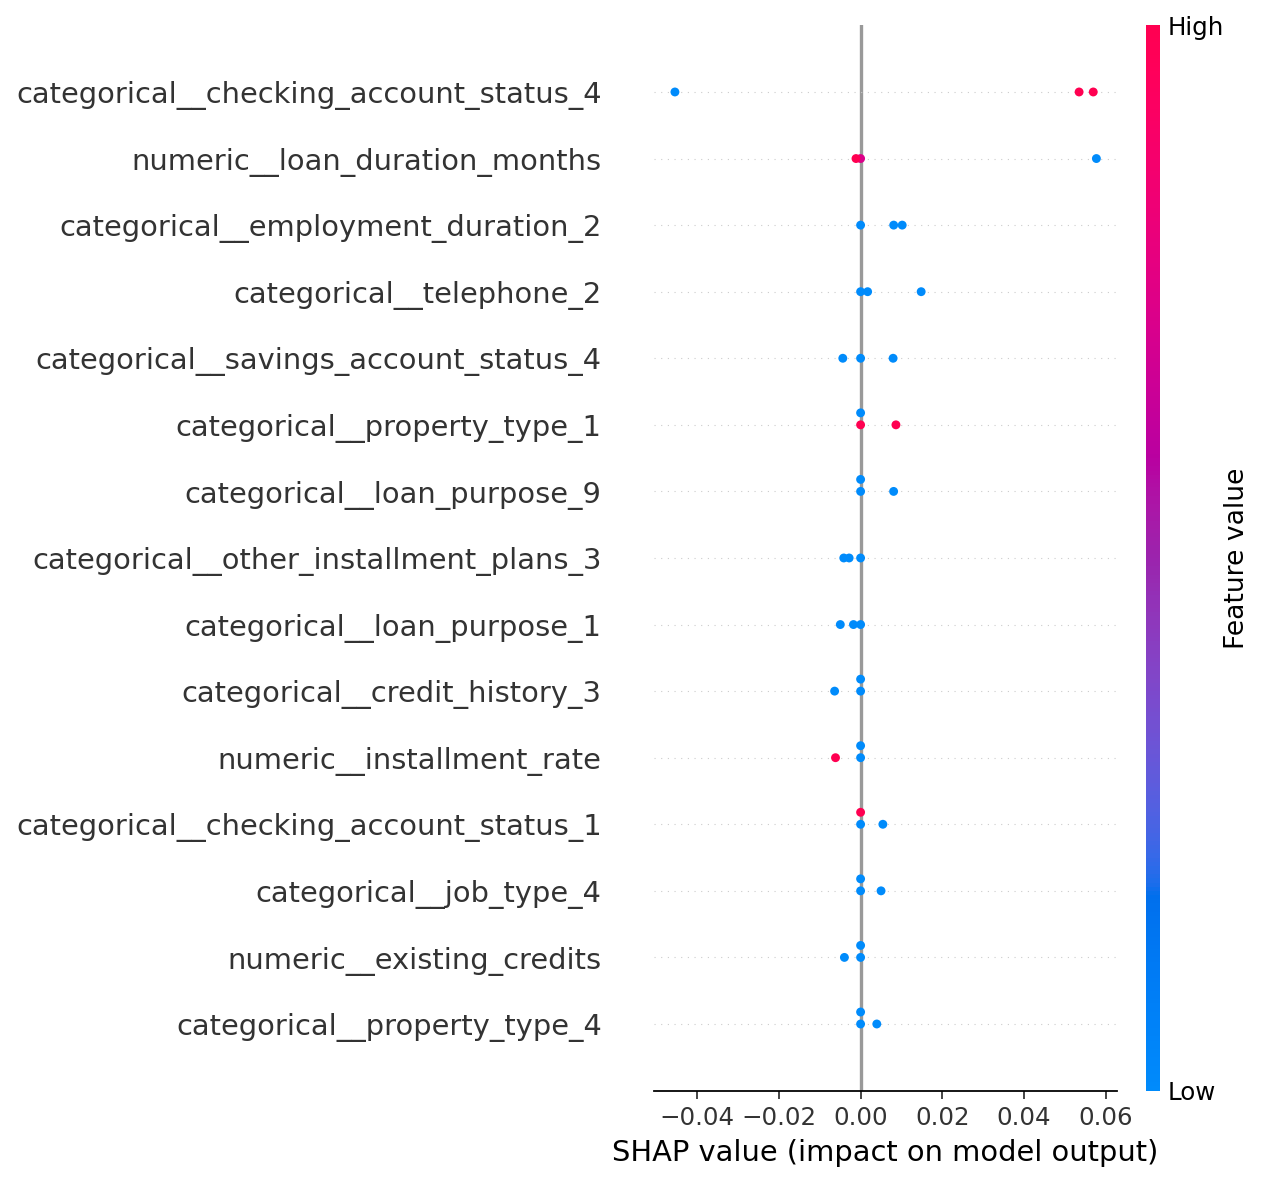
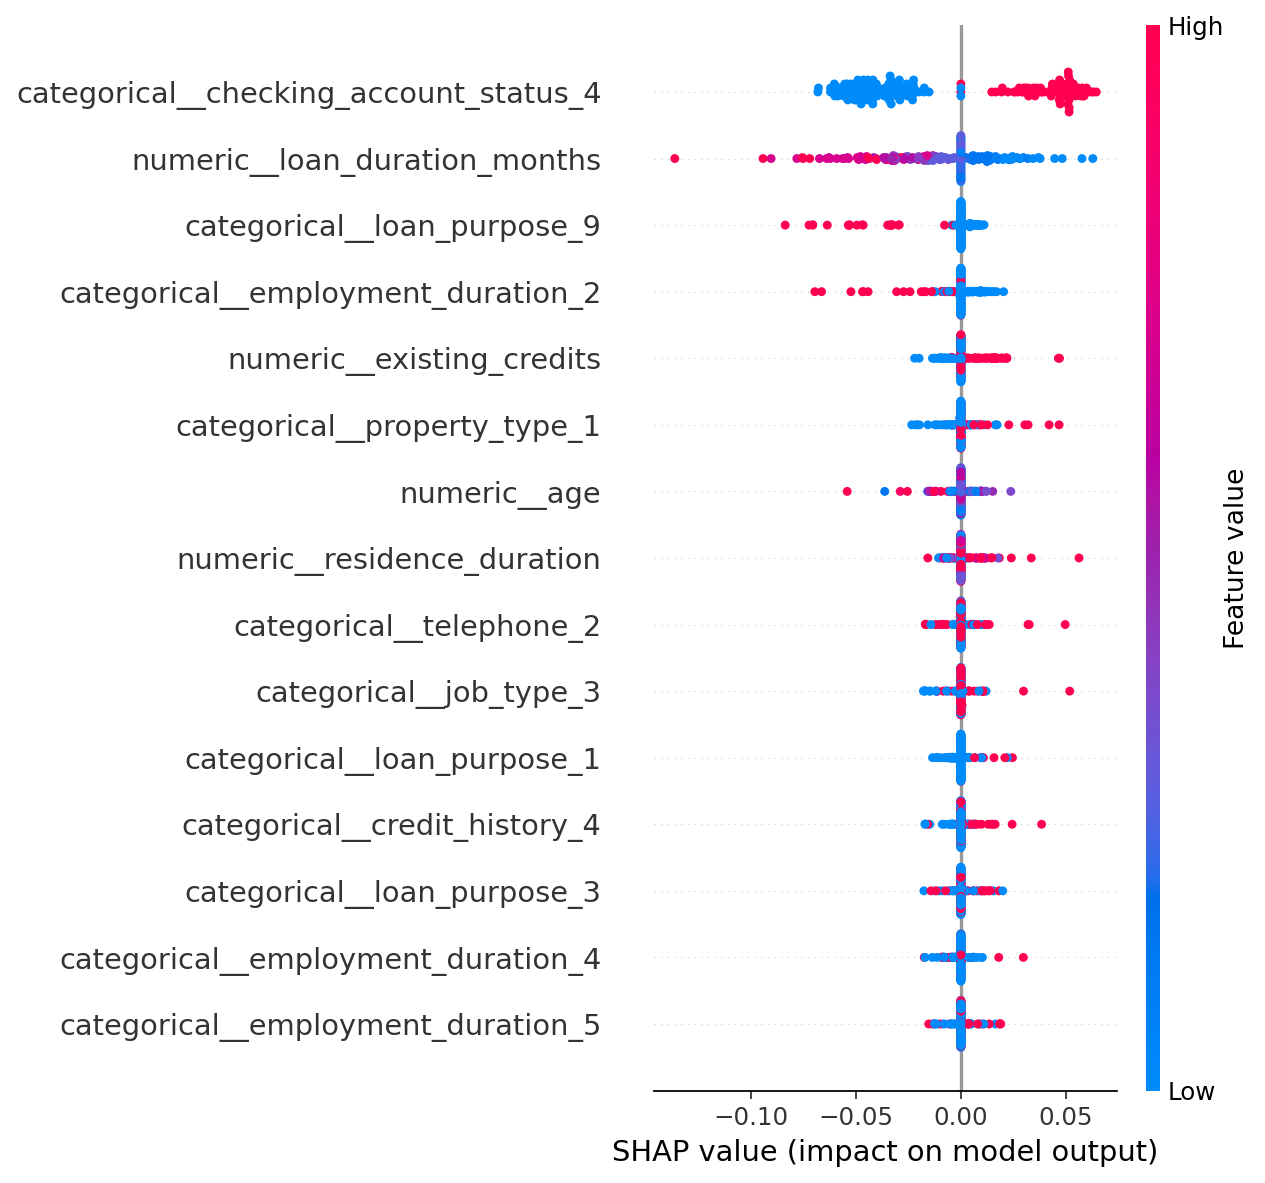
Add SHAP report generation and update README with report details

diff --git a/src/generate_shap_artifacts.py b/src/generate_shap_artifacts.py
@@ -1,7 +1,9 @@
 from __future__ import annotations
 
 import argparse
+import json
 
+import numpy as np
 from pytorch_tabnet.tab_model import TabNetClassifier
 
 try:
@@ -10,6 +12,8 @@ try:
         generate_shap_summary_plot,
         generate_shap_values,
         generate_shap_waterfall_plot,
+        get_global_shap_importance,
+        get_top_feature_contributions,
     )
     from .preprocess import preprocess_data
 except ImportError:
@@ -18,6 +22,8 @@ except ImportError:
         generate_shap_summary_plot,
         generate_shap_values,
         generate_shap_waterfall_plot,
+        get_global_shap_importance,
+        get_top_feature_contributions,
     )
     from preprocess import preprocess_data
 
@@ -37,13 +43,28 @@ def generate_backend_shap_artifacts(dataset: str = DEFAULT_DATASET) -> dict:
     model.load_model(str(model_path))
 
     X_background = data["X_train"][:20]
-    X_sample = data["X_test"][:3]
+    X_sample = data["X_test"]
     shap_values = generate_shap_values(
         model,
         X_background,
         X_sample,
         background_size=20,
         nsamples=80,
+    )
+
+    sample_probability = float(model.predict_proba(X_sample[:1])[0, 1])
+    sample_values = np.asarray(shap_values[0] if np.asarray(shap_values).ndim > 1 else shap_values)
+    sample_contributions = get_top_feature_contributions(
+        sample_values,
+        data["feature_names"],
+        top_n=10,
+    )
+    positive = [item for item in sample_contributions if item["value"] > 0]
+    negative = [item for item in sample_contributions if item["value"] < 0]
+    global_importance = get_global_shap_importance(
+        shap_values,
+        data["feature_names"],
+        top_n=10,
     )
 
     summary_path = generate_shap_summary_plot(
@@ -53,13 +74,40 @@ def generate_backend_shap_artifacts(dataset: str = DEFAULT_DATASET) -> dict:
         output_paths["shap_summary"],
     )
     waterfall_path = generate_shap_waterfall_plot(
-        shap_values[0],
+        sample_values,
         data["feature_names"],
         output_paths["shap_waterfall"],
     )
 
+    report = {
+        "dataset": dataset,
+        "model": "tabnet_debiased" if model_path == model_paths["tabnet_debiased"] else "tabnet_baseline",
+        "test_records_explained": int(len(X_sample)),
+        "background_records": int(len(X_background)),
+        "nsamples": 80,
+        "sample_applicant": {
+            "creditworthy_probability": sample_probability,
+            "top_positive_contributions": positive,
+            "top_negative_contributions": negative,
+        },
+        "global_mean_absolute_shap": global_importance,
+        "summary_plot": str(summary_path),
+        "waterfall_plot": str(waterfall_path),
+    }
+    output_paths["shap_report"].write_text(json.dumps(report, indent=2), encoding="utf-8")
+
     print(f"[DONE] SHAP summary saved to {summary_path}")
-    return {"summary_path": str(summary_path), "waterfall_path": str(waterfall_path)}
+    print(f"[INFO] Sample creditworthy probability: {sample_probability:.4f}")
+    print(f"[INFO] SHAP report saved to {output_paths['shap_report']}")
+    return {
+        "summary_path": str(summary_path),
+        "waterfall_path": str(waterfall_path),
+        "report_path": str(output_paths["shap_report"]),
+        "sample_probability": sample_probability,
+        "top_positive_contributions": positive,
+        "top_negative_contributions": negative,
+        "global_mean_absolute_shap": global_importance,
+    }
 
 
 if __name__ == "__main__":

diff --git a/src/explainability.py b/src/explainability.py
@@ -111,6 +111,26 @@ def get_top_feature_contributions(shap_values, feature_names, top_n: int = 10) -
     ]
 
 
+def get_global_shap_importance(shap_values, feature_names, top_n: int = 10) -> list[dict]:
+    """Rank features by mean absolute SHAP contribution across records."""
+    values = np.asarray(shap_values, dtype=float)
+    if values.ndim == 1:
+        values = values.reshape(1, -1)
+    importance = pd.DataFrame(
+        {
+            "feature": feature_names,
+            "mean_abs_shap": np.mean(np.abs(values), axis=0),
+        }
+    ).sort_values("mean_abs_shap", ascending=False)
+    return [
+        {
+            "feature": row.feature,
+            "mean_abs_shap": float(row.mean_abs_shap),
+        }
+        for row in importance.head(top_n).itertuples(index=False)
+    ]
+
+
 def generate_shap_waterfall_plot(
     shap_values,
     feature_names,

diff --git a/src/config.py b/src/config.py
@@ -141,6 +141,7 @@ def get_output_paths(dataset: str = DEFAULT_DATASET) -> dict:
             "model_comparison": OUTPUT_DIR / "model_comparison.csv",
             "shap_summary": OUTPUT_DIR / "shap_summary.png",
             "shap_waterfall": OUTPUT_DIR / "shap_waterfall.png",
+            "shap_report": OUTPUT_DIR / "shap_report.json",
         }
     return {
         "metrics": OUTPUT_DIR / f"{dataset_key}_metrics.json",
@@ -148,4 +149,5 @@ def get_output_paths(dataset: str = DEFAULT_DATASET) -> dict:
         "model_comparison": OUTPUT_DIR / f"{dataset_key}_model_comparison.csv",
         "shap_summary": OUTPUT_DIR / f"{dataset_key}_shap_summary.png",
         "shap_waterfall": OUTPUT_DIR / f"{dataset_key}_shap_waterfall.png",
+        "shap_report": OUTPUT_DIR / f"{dataset_key}_shap_report.json",
     }

diff --git a/README.md b/README.md
@@ -478,7 +478,14 @@ Saved outputs:
 ```text
 outputs/shap_summary.png
 outputs/shap_waterfall.png
+outputs/shap_report.json
+outputs/shap_report.json
 ```
+
+The SHAP report explains every test record with the fairness-aware TabNet model
+and records the first test applicant's creditworthy probability, largest positive
+and negative contributions, and the ten features with the highest mean absolute
+SHAP contribution across the test set.
 
 ## Backend Inference API
 
